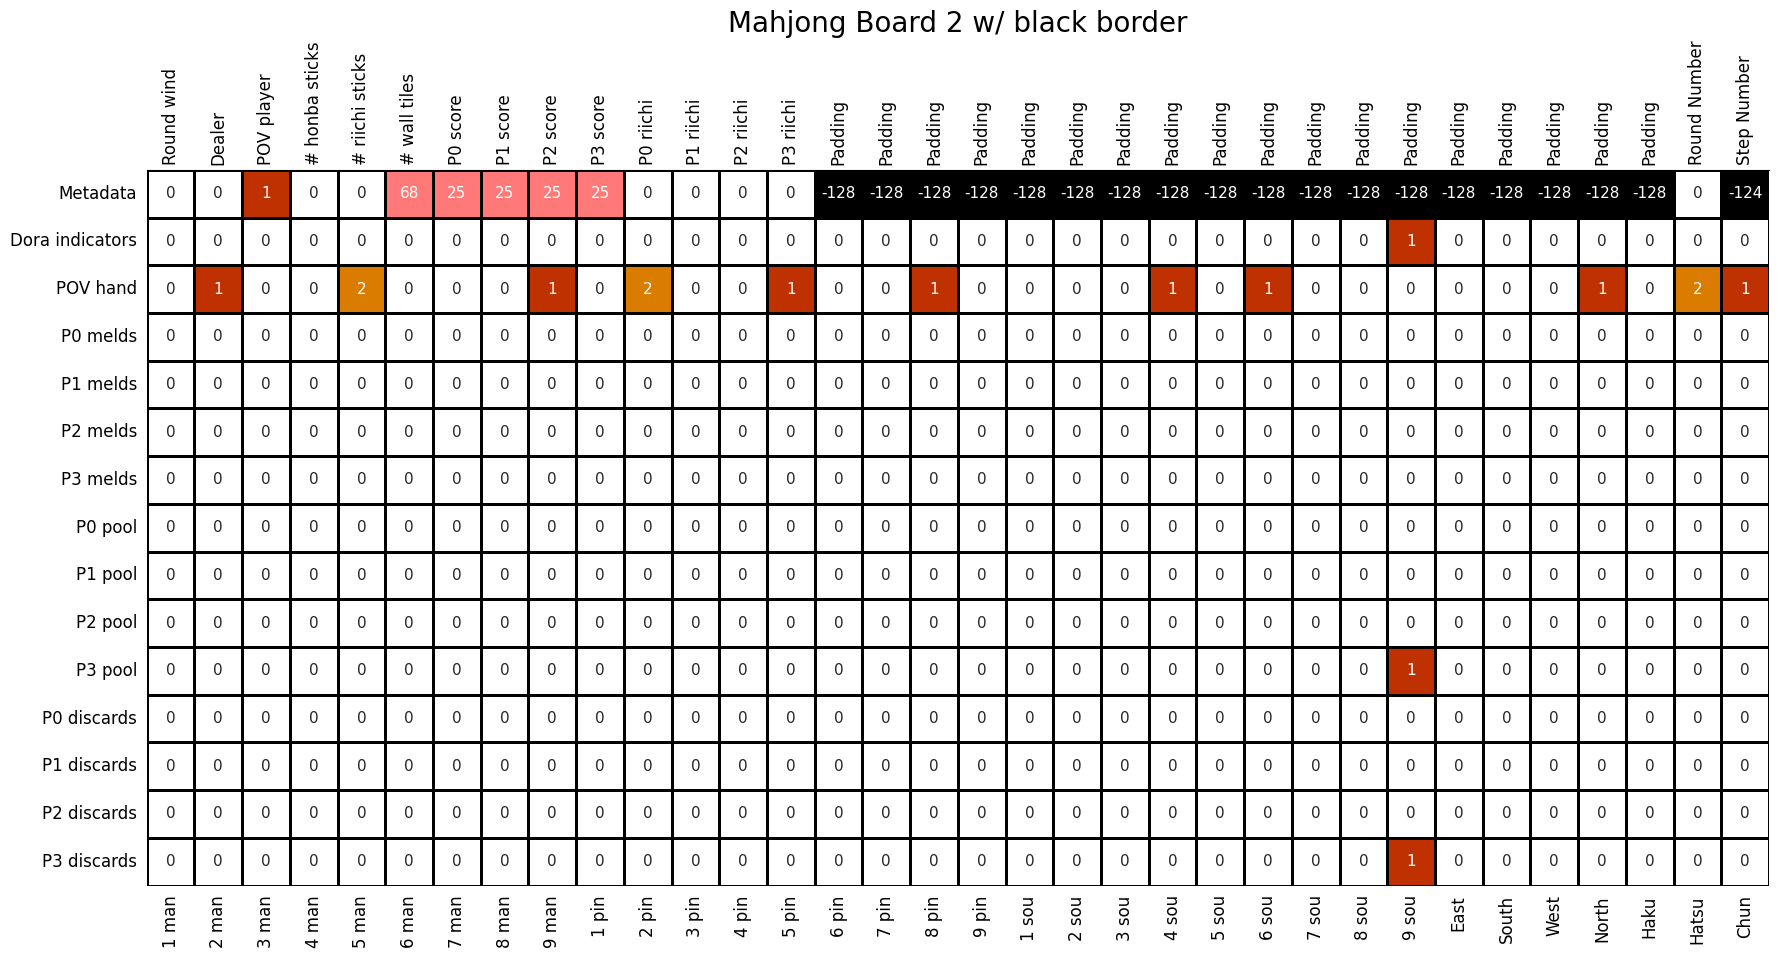
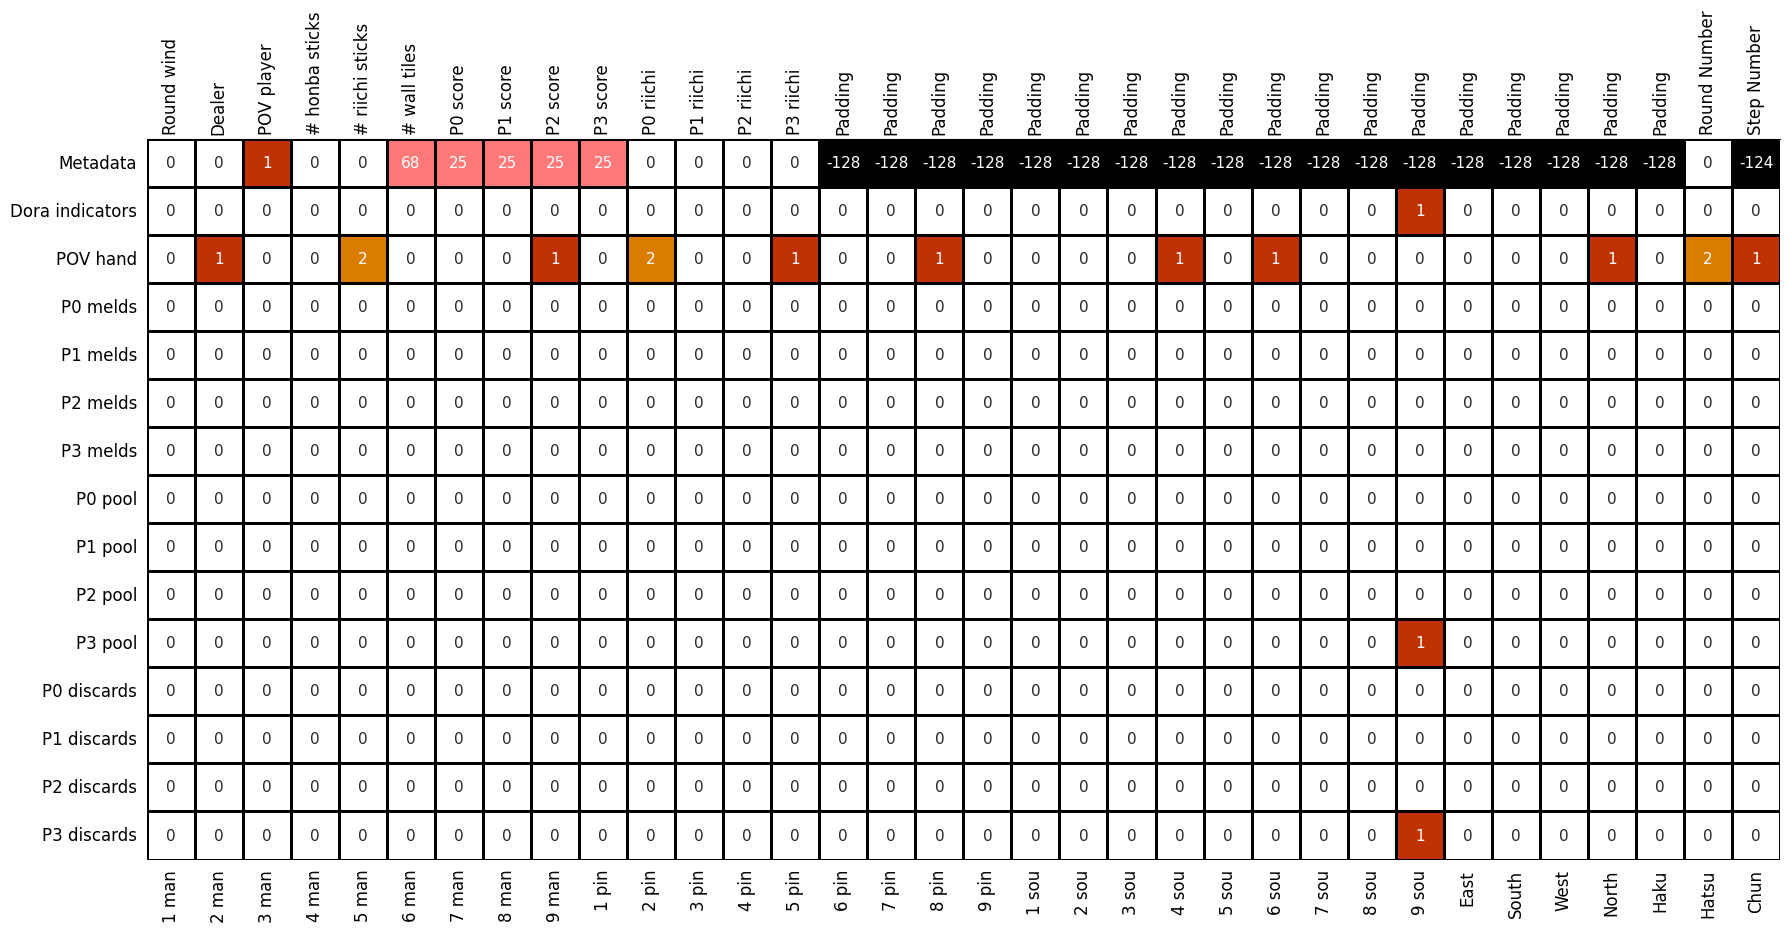
Fix:HeatMap2

Changed region(s): [[0.0, 0.0311, 1.0, 0.9957], [0.4019, 0.0, 0.6802, 0.0311], [0.6802, 0.9335, 0.7729, 0.9646]]

diff --git a/maps.py b/maps.py
@@ -5,138 +5,86 @@ import numpy as np
 
 # fmt: off
 LABELS_MAHJONG_TILES = [
-    "1 man", "2 man", "3 man",
-    "4 man", "5 man", "6 man",
-    "7 man", "8 man", "9 man",
-    "1 pin", "2 pin", "3 pin",
-    "4 pin", "5 pin", "6 pin",
-    "7 pin", "8 pin", "9 pin",
-    "1 sou", "2 sou", "3 sou",
-    "4 sou", "5 sou", "6 sou",
-    "7 sou", "8 sou", "9 sou",
-    "East", "South", "West", "North",
-    "Haku", "Hatsu", "Chun",
+    "1 man", "2 man", "3 man", "4 man", "5 man", "6 man", "7 man", "8 man", "9 man",
+    "1 pin", "2 pin", "3 pin", "4 pin", "5 pin", "6 pin", "7 pin", "8 pin", "9 pin",
+    "1 sou", "2 sou", "3 sou", "4 sou", "5 sou", "6 sou", "7 sou", "8 sou", "9 sou",
+    "East", "South", "West", "North", "Haku", "Hatsu", "Chun",
 ]
 
 LABELS_Y = [
-    "Metadata",
-    "Dora indicators",
-    "POV hand",
+    "Metadata", "Dora indicators", "POV hand",
     "P0 melds", "P1 melds", "P2 melds", "P3 melds",
     "P0 pool", "P1 pool", "P2 pool", "P3 pool",
     "P0 discards", "P1 discards", "P2 discards", "P3 discards",
 ]
 
 LABELS_METADATA = (
-    [
-        "Round wind",
-        "Dealer",
-        "POV player",
-        "# honba sticks",
-        "# riichi sticks",
-        "# wall tiles",
-    ]
-    + ["P0 score", "P1 score", "P2 score", "P3 score"]
-    + ["P0 riichi", "P1 riichi", "P2 riichi", "P3 riichi"]
+    ["Round wind", "Dealer", "POV player", "# honba sticks", "# riichi sticks", "# wall tiles"]
+    + [f"P{i} score" for i in range(4)]
+    + [f"P{i} riichi" for i in range(4)]
     + ["Padding" for _ in range(18)]
     + ["Round Number", "Step Number"]
 )
 
 KAGGLE_MAHJONG_COLORMAP = {
     "norm": matplotlib.colors.BoundaryNorm([-128, 0, 1, 2, 3, 4, 5, 128], 8),
-    "cmap": sns.color_palette(
-        ["#000000", "#ffffff", "#bf3100", "#da7c00", "#FFC312", "#ffd64f", "#ff7979"]
-    )
+    "cmap": sns.color_palette(["#000000", "#ffffff", "#bf3100", "#da7c00", "#FFC312", "#ffd64f", "#ff7979"]),
 }
 # fmt: on
 
 
 def generate_mahjong_heatmap(
     input_matrix: np.ndarray,
-    labels_left: list[str] | None = None,
-    labels_top: list[str] | None = None,
-    labels_bottom: list[str] | None = None,
-    override_heatmap_params={},
-    figure_size=(18, 11),
     title: str = "",
-    enable_color_bar=False,
-    color_bar_label: str = "",
-    colormap="icefire",
-    enable_annotation=True,
-    enable_border=True,
-    border_color="black",
-    border_width=2,
-    annotation_fontsize=11,
-    label_fontsize=12,
     output_path=None,
     show_fig=True,
 ):
-
+    """Generates and displays a simplified heatmap for a mahjong game state matrix."""
     assert input_matrix.ndim == 2, "Method expects a 2D matrix!"
 
-    if labels_top is None:
-        labels_top = LABELS_METADATA
+    # Usar valores fijos 
+    labels_top = LABELS_METADATA
+    labels_bottom = LABELS_MAHJONG_TILES
+    labels_left = LABELS_Y
+    figure_size = (18, 11)
+    colormap = "kaggle_mahjong"
+    
+    fig, ax_heatmap = plt.subplots(figsize=figure_size)
 
-    if labels_bottom is None:
-        labels_bottom = LABELS_MAHJONG_TILES
+    # Parámetros del heatmap con valores fijos
+    heatmap_params = {
+        "ax": ax_heatmap,
+        "annot": True,
+        "fmt": "g",
+        "square": True,
+        "xticklabels": labels_bottom,
+        "yticklabels": labels_left,
+        "annot_kws": {"fontsize": 11},
+        "robust": True,
+        "cbar": False,
+        "linewidths": 2,  # Borde fijo
+        "linecolor": "black",  # Color de borde fijo
+    }
 
-    if labels_left is None:
-        labels_left = LABELS_Y
-
-    fig, (ax_heatmap, ax_colormap) = plt.subplots(
-        nrows=2,
-        figsize=figure_size,
-        gridspec_kw={"height_ratios": [100, 1]},
-    )
-
-    # Reasonable default params
-    heatmap_params = dict(
-        ax=ax_heatmap,
-        cmap=colormap,
-        annot=enable_annotation,
-        fmt="g",
-        square=True,
-        xticklabels=labels_bottom,
-        yticklabels=labels_left,
-        annot_kws={"fontsize": annotation_fontsize},
-        robust=True,
-        cbar=enable_color_bar,  # Turning the color bar invisible further down
-        cbar_ax=ax_colormap,
-        cbar_kws=dict(label=color_bar_label, orientation="horizontal"),
-    )
-
-    # Heatmap grid color and width
-    if enable_border:
-        heatmap_params.update(dict(linewidths=border_width, linecolor=border_color))
-    else:
-        heatmap_params.update(dict(linewidths=0))
-
-    if colormap == "kaggle_mahjong":
-        heatmap_params.update(KAGGLE_MAHJONG_COLORMAP)
-
-    heatmap_params.update(override_heatmap_params)
+    # Aplicar colormap fijo de kaggle_mahjong
+    heatmap_params.update(KAGGLE_MAHJONG_COLORMAP)
 
     ax_seaborn = sns.heatmap(input_matrix, **heatmap_params)
 
-    ax_seaborn.tick_params(
-        left=False, bottom=False, top=False, labelsize=label_fontsize
-    )
+    ax_seaborn.tick_params(left=False, bottom=False, top=False, labelsize=12)
     if title:
-        ax_seaborn.set_title(title, fontdict=dict(fontsize=20))
+        ax_seaborn.set_title(title, fontdict={"fontsize": 20})
 
-    if labels_top:
-        secax = ax_seaborn.secondary_xaxis("top")
-        secax.set_xticks(ax_seaborn.get_xticks())
-        secax.set_xticklabels(labels_top, rotation=90, fontsize=label_fontsize)
-        secax.tick_params(axis="x", which="both", length=0)
+    # Agregar etiquetas en la parte superior
+    secax = ax_seaborn.secondary_xaxis("top")
+    secax.set_xticks(ax_seaborn.get_xticks())
+    secax.set_xticklabels(labels_top, rotation=90, fontsize=12)
+    secax.tick_params(axis="x", which="both", length=0)
 
     fig.tight_layout()
 
-    if not enable_color_bar:
-        ax_colormap.set_visible(False)
-
-    if output_path is not None:
-        plt.savefig(output_path + ".png", bbox_inches="tight")
+    if output_path:
+        plt.savefig(f"{output_path}.png", bbox_inches="tight")
 
     if show_fig:
         plt.show()

diff --git a/test.py b/test.py
@@ -41,7 +41,8 @@ num_matrices_to_process = 5  # Procesar solo las primeras 5 para prueba rápida
 
 print(f"Generando heatmaps para las primeras {num_matrices_to_process} matrices...")
 
-for i in range(min(num_matrices_to_process, len(mock_matrix))):    # Obtener la fila individual y reformatearla a matriz 2D (15x34)
+for i in range(min(num_matrices_to_process, len(mock_matrix))):
+    # Obtener la fila individual y reformatearla a matriz 2D (15x34)
     single_row = mock_matrix[i]  # Obtener fila individual (510 elementos)
     single_matrix = single_row.reshape(15, 34)  # Reformatear a matriz 2D de 15x34
     
@@ -51,8 +52,6 @@ for i in range(min(num_matrices_to_process, len(mock_matrix))):    # Obtener la 
         generate_mahjong_heatmap(
             input_matrix=single_matrix,
             title="",  # Título eliminado
-            border_color="black",
-            colormap="kaggle_mahjong",  # Custom colormap useful for this use-case
             output_path=f"./resources/mahjong_board_{i+1}_black"
         )
         print(f"  ✓ Heatmap negro generado para matriz {i+1}")

diff --git a/dashboard_app.py b/dashboard_app.py
@@ -138,13 +138,11 @@ class MahjongDashboard:
                 return None
 
             # Obtener la matriz específica
-            matrix_data = self.matrices_data[matrix_index]            # Generar heatmap usando la función de maps.py
+            matrix_data = self.matrices_data[matrix_index]            # Generar heatmap usando la función simplificada de maps.py
             output_path = f"./resources/mahjong_board_{matrix_index + 1}_{color}"
             generate_mahjong_heatmap(
                 input_matrix=matrix_data,
                 title="",  # Título eliminado
-                border_color=color,
-                colormap="kaggle_mahjong",
                 output_path=output_path,
                 show_fig=False
             )
